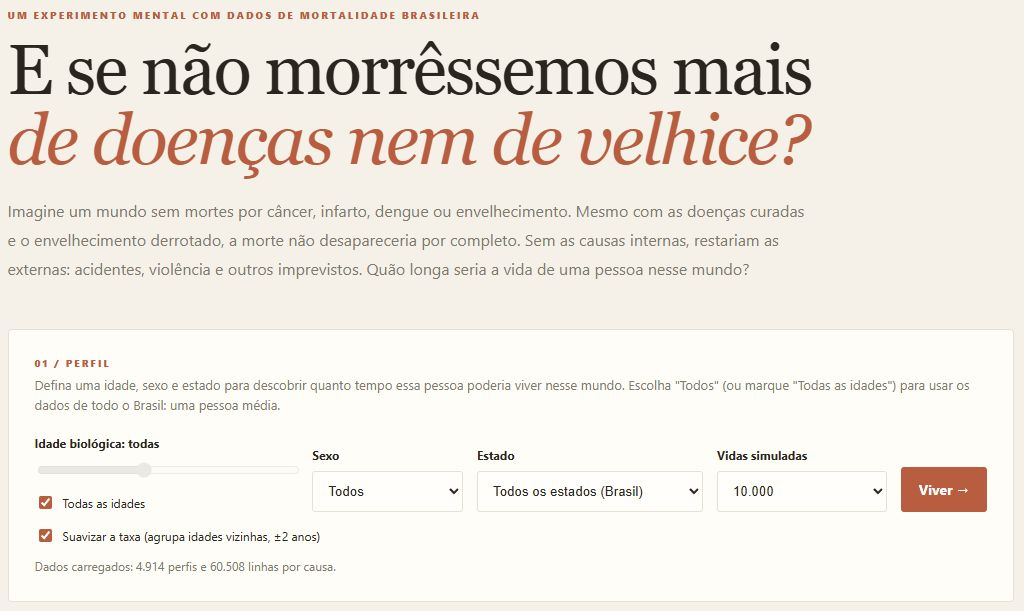
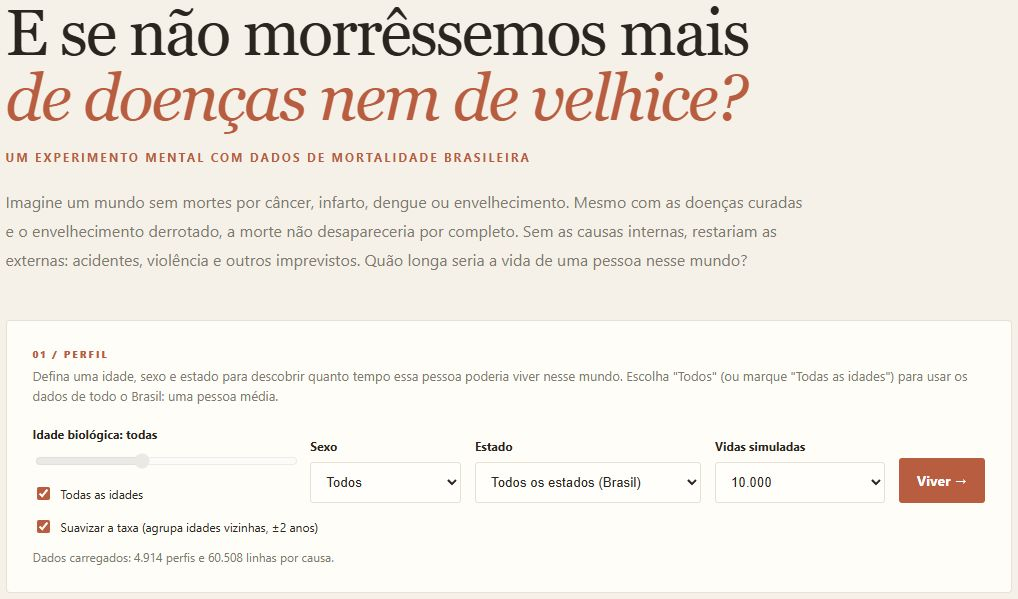
Update design
I updated details in the design.

diff --git a/index.html b/index.html
@@ -10,14 +10,17 @@
 	<!-- Open Graph / Facebook / WhatsApp / LinkedIn -->
 	<meta property="og:type" content="website" />
 	<meta property="og:url" content="https://ferdesmello.github.io/vida-longa/" />
+	<meta property="og:site_name" content="Vida Longa" />
 	<meta property="og:title" content="Vida Longa — E se não morrêssemos mais de velhice ou doença alguma?" />
-	<meta property="og:description" content="Quão longas seriam nossas vidas em um mundo sem mortes por doenças ou envelhecimento?" />
+	<meta property="og:description"
+		content="Quão longas seriam nossas vidas em um mundo sem mortes por doenças ou envelhecimento?" />
 	<meta property="og:image" content="https://ferdesmello.github.io/vida-longa/assets/results_person.jpg" />
 	<!-- Twitter / X -->
 	<meta name="twitter:card" content="summary_large_image" />
 	<meta name="twitter:url" content="https://ferdesmello.github.io/vida-longa/" />
 	<meta name="twitter:title" content="Vida Longa — E se não morrêssemos mais de velhice ou doença alguma?" />
-	<meta name="twitter:description" content="Quão longas seriam nossas vidas em um mundo sem mortes por doenças ou envelhecimento?" />
+	<meta name="twitter:description"
+		content="Quão longas seriam nossas vidas em um mundo sem mortes por doenças ou envelhecimento?" />
 	<meta name="twitter:image" content="https://ferdesmello.github.io/vida-longa/assets/results_person.jpg" />
 
 	<title>Vida Longa — E se não morrêssemos mais de velhice ou doença alguma?</title>
@@ -76,7 +79,7 @@
 		}
 
 		h1 {
-			font: 500 clamp(40px, 7vw, 70px)/1 Georgia, serif;
+			font: 500 clamp(40px, 7vw, 65px)/1 Georgia, serif;
 			letter-spacing: -2px;
 			margin: 0;
 			text-wrap: balance;
@@ -85,6 +88,14 @@
 		h1 em {
 			color: var(--rust);
 			font-weight: 400
+		}
+
+		.subtitle {
+			color: var(--rust);
+			font-size: 12px;
+			font-weight: 700;
+			letter-spacing: 2px;
+			margin: 18px 0px 0px
 		}
 
 		.hero p:last-child {
@@ -391,6 +402,8 @@
 		}
 
 		.histogram {
+			touch-action: pan-y;
+			cursor: crosshair;
 			height: 230px;
 			display: flex;
 			align-items: flex-end;
@@ -561,6 +574,19 @@
 		input[type=range]:disabled {
 			opacity: .4
 		}
+			.bar.hov { filter: brightness(.85) }
+
+		.hist-tip {
+			position: fixed;
+			z-index: 10;
+			pointer-events: none;
+			background: var(--ink);
+			color: #fff;
+			font-size: 12px;
+			padding: 5px 9px;
+			border-radius: 3px;
+			white-space: nowrap
+		}
 	</style>
 </head>
 
@@ -569,8 +595,8 @@
 	<main>
 
 		<section class="hero">
-			<p class="eyebrow">UM EXPERIMENTO MENTAL COM DADOS DE MORTALIDADE BRASILEIRA</p>
 			<h1>E se não morrêssemos mais<br><em>de doenças nem de velhice?</em></h1>
+			<p class="subtitle">UM EXPERIMENTO MENTAL COM DADOS DE MORTALIDADE BRASILEIRA</p>
 			<p>Imagine um mundo sem mortes por câncer, infarto, dengue ou envelhecimento. Mesmo com as doenças curadas e
 				o envelhecimento derrotado, a morte não desapareceria por completo. Sem as causas internas, restariam as
 				externas: acidentes, violência e outros imprevistos. Quão longa seria a vida de uma pessoa nesse mundo?
@@ -707,38 +733,40 @@
 		<section class="panel">
 			<p class="eyebrow">05 / POR TRÁS DA CONTA</p>
 			<details>
-				<summary>Como isso é feito</summary>
-				<p>Para o perfil escolhido (idade, sexo e estado), a taxa anual é <code>m = óbitos / população</code>
-					naquela idade, e a chance de morrer em um ano é <code>p = 1 − exp(−m)</code>. Como o corpo e o
-					comportamento ficam congelados, o risco nunca muda: todo ano é o mesmo dado. Com a suavização
-					ligada, <code>m</code> usa as idades vizinhas (±2 anos): óbitos somados dividido por população
-					somada. Se nem assim houver mortes, a janela se amplia até encontrar, e a página avisa quais idades
-					foram usadas. O tempo de espera até a morte é então exponencial, <code>anos = ⌊−ln(U) / m⌋</code>,
-					com U uniforme em (0,1), e a idade ao morrer é a idade inicial mais esses anos.</p>
-				<p>A causa é sorteada com peso proporcional ao número de óbitos de cada causa naquela idade biológica,
-					sexo e estado. O contador de idade sobe, mas só no calendário: o risco continua o da idade
-					biológica escolhida.</p>
+				<summary>Como isso é calculado</summary>
+				<p>Para o perfil escolhido (idade, sexo e estado), a taxa anual de mortalidade naquela idade biológica é
+					<code>m = óbitos / população</code>, e a chance de morrer em um ano é <code>p = 1 − exp(−m)</code>.
+					Como mantemos essa mesma taxa todo ano (a pessoa mantém a mesma idade biológica e comportamento), o
+					risco nunca muda. Com a suavização ligada, <code>m</code> usa as idades vizinhas (±2 anos): óbitos
+					somados dividido por população somada. Se nem assim houver mortes, a janela se amplia até encontrar,
+					e a página avisa quais idades foram usadas. O tempo de espera até a morte é então exponencial,
+					<code>anos = ⌊−ln(U) / m⌋</code>, com U uniforme em (0,1), e a idade ao morrer é a idade inicial
+					mais esses anos.
+				</p>
+				<p>A causa de morte é sorteada com peso proporcional ao número de óbitos de cada causa naquela idade
+					biológica, sexo e estado. O contador de idade sobe, mas só no calendário: o risco continua o da
+					idade biológica escolhida.</p>
 				<p>Ao escolher "Todos" em sexo ou estado, são somados óbitos e população de todas as categorias. Com
-					"Todas as idades", a taxa é a taxa bruta: todas as mortes divididas por toda a população, o que um
-					cálculo ingênuo faria para um "brasileiro médio". Nesse caso o contador começa na idade média da
-					população, mas o risco continua o mesmo ano após ano.</p>
+					"Todas as idades", a taxa é a taxa bruta: todas as mortes divididas por toda a população, então
+					ingenuamente para um "brasileiro médio". Nesse caso, o contador começa na idade média da população
+					(~36 anos), mas o risco continua o mesmo ano após ano.</p>
 			</details>
 			<details>
 				<summary>Por que alguém viveria tanto?</summary>
-				<p>Com risco constante, o tempo médio de espera é 1/m. Se m é 0,05% ao ano, são em média 2.000 anos.
-					Experimente idades diferentes: o risco varia bastante entre elas, e escolher a idade é escolher o
-					risco. A distribuição é assimétrica, como no decaimento radioativo, só que com tropeções: muita
-					gente morre cedo e uma minoria improvável chega a dezenas de milhares de anos.</p>
+				<p>Com risco constante, o tempo médio de vida é <code>1/m</code>. Se <code>m</code> é 0,05% ao ano,
+					são em média 2.000 anos. Mas muita gente morre cedo e apenas uma minoria improvável chega a dezenas
+					de milhares de anos. Experimente idades diferentes, pois o risco varia bastante entre elas, e
+					escolher a idade biológica é escolher a maior parte do risco.</p>
 			</details>
 			<details>
 				<summary>Isso faz sentido?</summary>
-				<p>Sem doenças e envelhecimento (obrigatório), a sociedade e a condição humana mudariam radicalmente, e
-					os riscos mudariam também. O modelo ignora essas mudanças, a história, o comportamento individual e
-					as diferenças de exposição. "Congelar" o corpo (e o risco) numa certa idade é uma escolha do
-					experimento; outra seria continuar envelhecendo, com o risco mudando a cada aniversário. Também, é
-					improvável que a medicina avance tanto em causas internas e não também em causas externas. Mas isto
-					é um experimento mental, não uma previsão. Ainda assim, é um experimento divertido, até para ver o
-					potencial de tal empreitada.</p>
+				<p>Talvez não muito. Sem doenças e envelhecimento (obrigatório), a sociedade e a condição humana
+					mudariam radicalmente, e os riscos mudariam também. O modelo ignora essas mudanças, a história, o
+					comportamento individual e as diferenças de exposição. "Congelar" o corpo (e o risco) numa certa
+					idade biológicaé uma escolha do experimento; outra seria continuar envelhecendo, com o risco mudando
+					a cada aniversário. Também é improvável que a medicina avance tanto em causas internas e não também
+					em causas externas. Ainda assim, mesmo não sendo uma previsão, é um experimento mental divertido,
+					até para ver o potencial de tal empreitada transumanista.</p>
 			</details>
 			<details>
 				<summary>Dados e limitações</summary>
@@ -746,19 +774,21 @@
 						rel="noopener">SIM/DATASUS</a> (óbitos por causas externas, capítulo XX da CID-10) e <a
 						href="https://www.ibge.gov.br/estatisticas/sociais/populacao/9109-populacao-estimada.html"
 						target="_blank" rel="noopener">estimativas e projeções populacionais do IBGE</a>; ano de
-					referência 2024. Como uma única linha (idade, sexo, estado) define a vida inteira, estados pequenos
-					geram taxas ruidosas. Taxa zero significa "nenhuma morte observada", não "risco zero"; quando não há
-					mortes na idade, a página amplia a janela de idades vizinhas até encontrar algumas (somando óbitos e
-					população, o que pesa mais as idades com mais gente) e avisa. Só se não houver nenhuma morte em todo
-					o perfil a pessoa aparece como imortal.</p>
+					referência 2024. Estados pequenos geram taxas ruidosas. Taxa zero significa "nenhuma morte
+					observada", não "risco zero"; quando não há mortes na idade selecionada, a página amplia a janela de
+					idades vizinhas até encontrar algumas (somando óbitos e população, o que pesa mais as idades com
+					mais gente) e avisa disso. Só se não houver nenhuma morte em todo o perfil, a pessoa aparece como
+					imortal.</p>
+				<p>Algumas mortes por causas raríssimas nos dados do SIM/DATASUS não foram obras inesperadas do acaso,
+					mas oriundas de erros de digitação ou preenchimento. Então fique atento para elas; por exemplo, as
+					mortes por "X52 - Estadia prolongada em ambiente agravitacional."</p>
 			</details>
 		</section>
 
 		<footer>
-			VIDA LONGA · Um experimento mental com dados de mortalidade brasileira ·
-			<a id="repo" target="_blank" rel="noopener">Código no GitHub</a><span id="cvv" class="hidden"><br>Se você ou
-				alguém próximo precisa de apoio emocional: CVV, 188 (24h, gratuito), ou <a href="https://cvv.org.br/"
-					target="_blank" rel="noopener">cvv.org.br</a>.</span>
+			VIDA LONGA · <a id="repo" target="_blank" rel="noopener">Código fonte no GitHub</a><span id="cvv"
+				class="hidden"><br>Se você ou alguém próximo precisa de apoio emocional: CVV, 188 (24h, gratuito), ou <a
+					href="https://cvv.org.br/" target="_blank" rel="noopener">cvv.org.br</a>.</span>
 		</footer>
 	</main>
 
@@ -872,6 +902,25 @@
 		}
 		const num = x => Number(x);
 
+		/* tooltip do histograma: a coluna inteira é área de hover, e funciona com toque */
+		let histTips = [], histTipTimer = null;
+		const histTip = document.createElement("div"); histTip.className = "hist-tip hidden"; document.body.appendChild(histTip);
+		function showHistTip(e) {
+			clearTimeout(histTipTimer);
+			const bars = $("hist").children, n = bars.length; if (!n) return;
+			const rect = $("hist").getBoundingClientRect();
+			const i = Math.min(n - 1, Math.max(0, Math.floor((e.clientX - rect.left) / rect.width * n)));
+			[...bars].forEach((b, k) => b.classList.toggle("hov", k === i));
+			histTip.textContent = histTips[i]; histTip.classList.remove("hidden");
+			const w = histTip.offsetWidth;
+			histTip.style.left = Math.max(4, Math.min(innerWidth - w - 4, e.clientX - w / 2)) + "px";
+			histTip.style.top = Math.max(4, e.clientY - 44) + "px";
+		}
+		function hideHistTip(e) {
+			const hide = () => { histTip.classList.add("hidden"); [...$("hist").children].forEach(b => b.classList.remove("hov")); };
+			if (e && e.pointerType === "touch") histTipTimer = setTimeout(hide, 1500); else hide();
+		}
+
 		/* Taxa da idade escolhida. Com suavização, agrupa ±2 anos (óbitos somados / população somada).
 		   Se a janela não tiver mortes, ela é ampliada até encontrar. A idade 90 (grupo "90+") não é misturada com as demais. */
 		function buildProfile(sex, uf, startArg, smooth) {
@@ -899,7 +948,7 @@
 		}
 		/* descrição do perfil: curta (imagem) ou completa (nota) */
 		function profileLabel(short) {
-			if (P.sex === "ALL" && P.uf === "ALL" && P.all) return short ? `pessoa média do Brasil, ${P.start} anos` : `pessoa média do Brasil (começa aos ${P.start} anos, a idade média da população)`;
+			if (P.sex === "ALL" && P.uf === "ALL" && P.all) return short ? `pessoa média do Brasil` : `pessoa média do Brasil (começa aos ${P.start} anos, a idade média da população)`;
 			const who = P.sex === "F" ? "mulher" : P.sex === "M" ? "homem" : "pessoa";
 			const age = P.all ? (short ? `${P.start} anos (idade média)` : `idade média da população (${P.start} anos)`) : `${P.start} anos`;
 			return `${who}, ${age}, ${P.uf === "ALL" ? "Brasil" : (UF_NAMES[P.uf] || P.uf)}`;
@@ -1032,11 +1081,12 @@
 			parts.push(`${fmt(100 * ages.filter(a => a < start + 10).length / n, 1)}% não passaram de mais 10 anos`);
 			$("funFact").textContent = "Entre as vidas simuladas: " + parts.join("; ") + ".";
 			const H = histData(ages, last && last.age !== null ? last.age : null);
-			$("hist").innerHTML = H.cnt.map((c, i) => {
-				const tail = i === H.B; if (tail && !c) return "";
-				const from = H.s + i * H.w, tip = tail ? `${fmt(c)} vidas acima de ${fmt(H.tailStart - 1)} anos` : `${fmt(c)} vidas · ${fmt(from)}–${fmt(from + H.w - 1)} anos`;
-				return `<div class="bar ${tail ? "tail" : ""} ${i === H.mine ? "me" : ""}" title="${tip}" style="height:${Math.max(1, Math.min(c, H.peak) / H.peak * 100)}%"></div>`;
-			}).join("");
+			const cols = H.cnt.map((c, i) => {
+				const tail = i === H.B; if (tail && !c) return null;
+				const from = H.s + i * H.w, tip = tail ? `${fmt(c)} ${c === 1 ? "vida" : "vidas"} acima de ${fmt(H.tailStart - 1)} anos` : `${fmt(c)} ${c === 1 ? "vida" : "vidas"} · ${fmt(from)}–${fmt(from + H.w - 1)} anos`;
+				return { tip, html: `<div class="bar ${tail ? "tail" : ""} ${i === H.mine ? "me" : ""}" style="height:${Math.max(1, Math.min(c, H.peak) / H.peak * 100)}%"></div>` };
+			}).filter(Boolean);
+			histTips = cols.map(c => c.tip); $("hist").innerHTML = cols.map(c => c.html).join("");
 			$("histLabels").innerHTML = `<span>${fmt(H.s)}</span><span>${fmt(Math.round((H.s + H.tailStart) / 2))}</span><span>${fmt(H.tailStart)}${H.tailN ? "+" : ""} anos</span>`;
 			$("histLegend").innerHTML = `Cada barra: ${H.unit}.<br><span class="sw" style="background:#d9a894"></span>vidas simuladas <span class="sw" style="background:var(--rust)"></span>a vida que você acabou de ver`
 				+ (H.tailN ? ` <span class="sw" style="background:var(--sage)"></span>cauda: ${fmt(100 * H.tailN / n, 1)}% das vidas passaram de ${fmt(H.tailStart - 1)} anos e estão somadas numa barra só${H.tailN > H.peak ? " (altura cortada)" : ""}.` : "");
@@ -1097,7 +1147,7 @@
 			HD.cnt.forEach((v, i) => { if (i === HD.B && !v) return; x.fillStyle = i === HD.mine ? "#b85d3f" : (i === HD.B ? "#75806a" : "#d9a894"); const hh = Math.max(2, Math.min(v, HD.peak) / HD.peak * 110); x.fillRect(110 + i * bw, 1150 - hh, Math.max(1, bw - 2), hh); });
 			x.fillStyle = "#81796e"; x.font = "20px system-ui,sans-serif"; x.fillText(`Cada barra: ${HD.unit}` + (HD.tailN ? " · última barra = cauda" : ""), W / 2, 1176);
 			x.fillStyle = "#81796e"; x.font = "24px system-ui,sans-serif";
-			x.fillText(`Em ${fmt(ages.length)} vidas: média de ${fmt(ages.reduce((a, b) => a + b, 0) / ages.length)} anos, mediana de ${fmt(q(ages, .5))}`, W / 2, 1215);
+			x.fillText(`Em ${fmt(ages.length)} vidas: média de ${fmt(ages.reduce((a, b) => a + b, 0) / ages.length)} anos, mediana de ${fmt(q(ages, .5))} anos`, W / 2, 1215);
 			x.fillText(`${REPO_URL.replace("https://", "")}`, W / 2, 1265);
 			return c;
 		}
@@ -1115,6 +1165,7 @@
 		$("go").onclick = () => { try { runAll(); } catch (e) { $("status").textContent = e.message; $("status").classList.add("error"); } };
 		$("again").onclick = again;
 		$("reset").onclick = () => { resetResults(); $("age").value = 36; $("allAges").checked = false; syncAge(); $("sex").value = "ALL"; $("runs").value = "10000"; $("smooth").checked = true; $("uf").value = "ALL"; window.scrollTo({ top: 0, behavior: "smooth" }); };
+		$("hist").addEventListener("pointermove", showHistTip); $("hist").addEventListener("pointerdown", showHistTip); $("hist").addEventListener("pointerleave", hideHistTip);
 		$("repo").href = REPO_URL;
 		loadData();
 	</script>

diff --git a/README.md b/README.md
@@ -41,9 +41,10 @@ vida-longa/
 ├── .gitignore
 ├── assets/
 │   ├── favicon.ico
-│   ├── selection.png
-│   ├── results_person.png
-│   └── results_people.png
+│   ├── selection.jpg
+│   ├── results_person.jpg
+│   ├── results_people.jpg
+│   └── vida-longa.png
 ├── data/
 │   ├── Mortalidade_Geral_2024.csv
 │   ├── projecoes_2024_tab1_idade_simples.xlsx
@@ -69,6 +70,10 @@ vida-longa/
 ### Many lives
 
 ![Result for many lives](assets/results_people.jpg)
+
+### Sharable card
+
+![Sharable card](assets/vida-longa.png)
 
 ## Data
 
